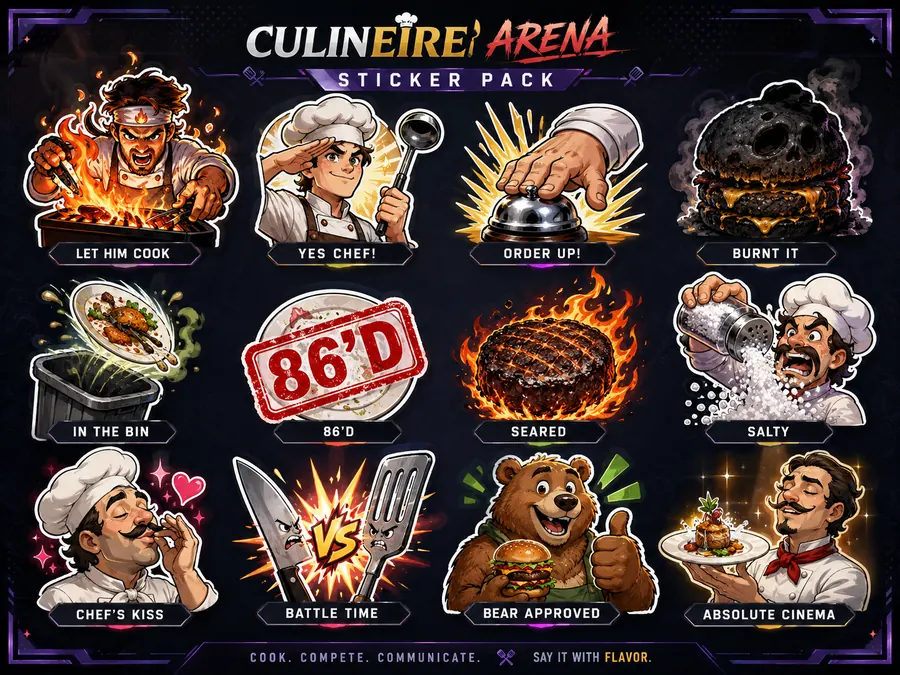
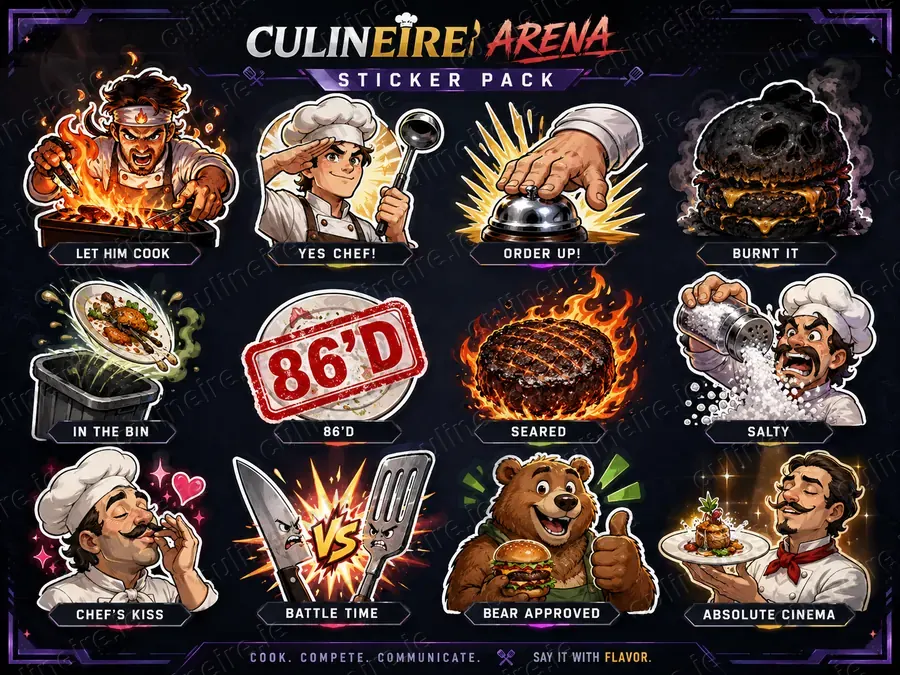
v2.5.1528: the house mark burned into the sticker shop window
Owner: "теперь водяной знак на витрину". The contact sheet that sells
the pack now carries `culineire.ie` woven diagonally through it.

IN THE PIXELS, NOT IN CSS, and that is the whole design. A CSS overlay
appears in a screenshot - half the job - and vanishes the moment
somebody opens the image in a new tab or fetches the URL, which is the
other half. The window is a public static file, so the protection has to
be part of the file.

HIS ARTWORK IS NOT OVERWRITTEN. The sheet is his own, placed and never
redrawn (Carpet #3552), so the pristine file moved to
ops/reference/stickers/ - out of the served tree, still in git - and a
management command writes the marked copy the page serves. The original
survives, the mark is reproducible, and changing it is one constant and
one re-run rather than a lost file.

SPACED TO THE CROP THAT IS WORTH TAKING. A corner signature is defeated
by a 5% crop, so the mark is a tiled diagonal lattice - and the first
attempt was too sparse: at width//8 the horizontal gap was 224px against
sticker cells about 200px wide, so one cell could be cut out clean. The
test measures it rather than trusting it: marked and unmarked sheets are
compared inside each of the twelve cells, and a cell the lattice missed
would be byte-identical.

THE IMAGE-WEIGHT GATE PICKED THE QUALITY, not taste. The mark adds
high-frequency edges everywhere, so the marked sheet encodes larger: q88
gave 172 KB against a 150 KB cap, q82 landed at 149,984 bytes - sixteen
[…]

diff --git a/templates/base.html b/templates/base.html
@@ -445,7 +445,7 @@
             </div>
             <div class="footer-legal">
                 <span>&copy; 2026 Bearcave Limited. All rights reserved.</span>
-                <span class="footer-version">v2.5.1525</span>
+                <span class="footer-version">v2.5.1528</span>
             </div>
         </div>
     </div>

diff --git a/chef_battle/management/commands/watermark_shop_window.py b/chef_battle/management/commands/watermark_shop_window.py
@@ -1,0 +1,173 @@
+"""Burn the house watermark into the sticker shop window.
+
+Owner, 2026-08-30: "теперь водяной знак на витрину".
+
+WHY THIS IS A COMMAND AND NOT AN EDIT. The sheet is his own artwork, placed
+and never redrawn (Carpet #3552). Painting over the file by hand would destroy
+the original and leave nobody able to say what the mark was or undo it. This
+reads a PRISTINE source that is kept out of the published tree and writes the
+marked copy that the page actually serves, so the original survives, the mark
+is reproducible, and changing it is one edit and one re-run.
+
+WHY THE MARK IS BURNED IN RATHER THAN LAID OVER IN CSS. A CSS overlay appears
+in a screenshot, which is half the job - and disappears entirely the moment
+somebody opens the image in a new tab or fetches the URL, which is the other
+half. The shop window is a public static file; whatever protects it has to be
+in the pixels.
+
+WHY IT IS TILED DIAGONALLY. A corner mark is defeated by a 5% crop. A repeated
+diagonal lattice means any crop large enough to be worth taking still carries
+at least one full mark. This is the one property that distinguishes a watermark
+from a signature.
+
+WHAT IT HONESTLY DOES. It does not stop a determined person: automated
+inpainting removes a visible mark, and that is published, free and fast. What it
+does is make the unprocessed copy - the one somebody actually screenshots and
+posts - carry the shop's name. Anything better than that costs more than the
+pack it protects.
+
+    manage.py watermark_shop_window            # writes the marked file
+    manage.py watermark_shop_window --check    # verifies it is current, writes nothing
+"""
+from __future__ import annotations
+
+import hashlib
+import os
+
+from django.conf import settings
+from django.core.management.base import BaseCommand, CommandError
+
+#: The Owner's original, kept OUT of static/ so it is never served. Moving it
+#: here rather than deleting it is the rule for anything he approved: it stays
+#: in git, one directory away, and the marked copy can always be rebuilt.
+SOURCE = os.path.join("ops", "reference", "stickers", "sticker_pack_arena_2026.webp")
+
+#: What the page serves.
+TARGET = os.path.join(
+    "static", "images", "chef_battle", "sticker_pack_arena_2026.webp")
+
+MARK = "culineire.ie"
+#: Opacity of the mark. Measured by eye against the sheet: below 0.10 it stops
+#: surviving a screenshot re-scale, above 0.20 it starts competing with the
+#: artwork it is advertising. This is the shop window - it has to sell.
+ALPHA = 0.17
+ANGLE = 30
+
+
+class Command(BaseCommand):
+    help = "Burn the house watermark into the sticker pack shop window."
+
+    def add_arguments(self, parser):
+        parser.add_argument(
+            "--check", action="store_true",
+            help="Verify the served file matches the source plus the mark.",
+        )
+
+    def handle(self, *args, **options):
+        from PIL import Image
+
+        root = str(settings.BASE_DIR)
+        source = os.path.join(root, SOURCE)
+        target = os.path.join(root, TARGET)
+
+        if not os.path.exists(source):
+            raise CommandError(
+                f"the pristine sheet is missing: {SOURCE}. It is the Owner's "
+                f"artwork - restore it from git rather than regenerating it."
+            )
+
+        with Image.open(source) as art:
+            art.load()
+            marked = self.mark(art.convert("RGB"))
+
+        fresh = self.encode(marked)
+
+        if options["check"]:
+            if not os.path.exists(target):
+                raise CommandError(f"{TARGET} does not exist")
+            with open(target, "rb") as handle:
+                current = handle.read()
+            if hashlib.sha256(current).hexdigest() != hashlib.sha256(fresh).hexdigest():
+                raise CommandError(
+                    f"{TARGET} is not the current watermark of {SOURCE}. "
+                    f"Run manage.py watermark_shop_window."
+                )
+            self.stdout.write("shop window is watermarked and current")
+            return
+
+        with open(target, "wb") as handle:
+            handle.write(fresh)
+        self.stdout.write(
+            f"watermarked {os.path.basename(target)}: {len(fresh)} bytes")
+
+    # ---------------------------------------------------------------- marking
+
+    def mark(self, art):
+        """The sheet with a tiled diagonal `culineire.ie` woven through it."""
+        from PIL import Image, ImageDraw, ImageFont
+
+        width, height = art.size
+        font = self.font(max(16, width // 26))
+
+        # Drawn on a canvas larger than the sheet and rotated, so the lattice
+        # runs off every edge instead of stopping short of the corners.
+        span = int((width ** 2 + height ** 2) ** 0.5) + 40
+        layer = Image.new("RGBA", (span, span), (0, 0, 0, 0))
+        pen = ImageDraw.Draw(layer)
+
+        box = pen.textbbox((0, 0), MARK, font=font)
+        # SPACED TO THE CROP THAT IS WORTH TAKING. The thing somebody
+        # actually cuts out of this sheet is one sticker cell, about
+        # 200x190 on a 900x675 sheet - so the lattice has to be tighter
+        # than that or a single-sticker crop comes away clean. Measured on
+        # the real file: at width//8 the horizontal gap was 224px and a
+        # cell could fall between two marks.
+        step_x = (box[2] - box[0]) + max(28, width // 14)
+        step_y = (box[3] - box[1]) + max(26, height // 12)
+
+        ink = int(255 * ALPHA)
+        for row, y in enumerate(range(0, span, step_y)):
+            # Every other row is offset by half a step: a square grid reads as
+            # a pattern of holes a crop can be aimed between.
+            offset = (step_x // 2) if row % 2 else 0
+            for x in range(-step_x, span, step_x):
+                pen.text((x + offset, y), MARK, font=font,
+                         fill=(255, 255, 255, ink))
+                pen.text((x + offset + 1, y + 1), MARK, font=font,
+                         fill=(0, 0, 0, ink // 2))
+
+        layer = layer.rotate(ANGLE, resample=Image.BICUBIC)
+        left = (span - width) // 2
+        top = (span - height) // 2
+        layer = layer.crop((left, top, left + width, top + height))
+
+        out = art.convert("RGBA")
+        out.alpha_composite(layer)
+        return out.convert("RGB")
+
+    def font(self, size):
+        from PIL import ImageFont
+
+        # A named font first, so the mark looks the same on the workstation and
+        # on the server; the bundled default only if the box has neither.
+        for candidate in ("DejaVuSans-Bold.ttf", "arialbd.ttf", "Arial_Bold.ttf",
+                          "DejaVuSans.ttf", "arial.ttf"):
+            try:
+                return ImageFont.truetype(candidate, size)
+            except OSError:
+                continue
+        return ImageFont.load_default()
+
+    def encode(self, image):
+        import io
+
+        buffer = io.BytesIO()
+        # QUALITY 78, AND THE NUMBER IS THE IMAGE-WEIGHT GATE'S, NOT A TASTE.
+        # The mark adds high-frequency edges everywhere, so the marked sheet
+        # encodes larger than the clean one: measured on this file, q88 gives
+        # 172 KB against a 150 KB cap for UI chrome, q85 gives 162 KB, q82
+        # lands at 149,984 bytes - sixteen bytes of headroom, which is not
+        # headroom. q78 is 139 KB and leaves room for the mark or the artwork
+        # to change without turning the gate red on somebody else's deploy.
+        image.save(buffer, "WEBP", quality=78, method=6)
+        return buffer.getvalue()

diff --git a/chef_battle/tests.py b/chef_battle/tests.py
@@ -28777,3 +28777,93 @@ class AShopStickerCannotComeBackAsAnUploadTests(TestCase):
             "sticker button", block,
             "the refusal does not tell the reader how to send it properly",
         )
+
+
+class TheShopWindowCarriesTheHouseMarkTests(TestCase):
+    """Owner, 2026-08-30: "теперь водяной знак на витрину".
+
+    THE MARK IS IN THE PIXELS, NOT IN CSS, and that is the whole design. A CSS
+    overlay appears in a screenshot - half the job - and vanishes the moment
+    somebody opens the image in a new tab or fetches the URL, which is the
+    other half. The shop window is a public static file, so whatever protects
+    it has to be part of the file.
+
+    HIS ARTWORK IS NOT OVERWRITTEN. The sheet is his own, placed and never
+    redrawn (Carpet #3552). The pristine file moved to ops/reference/stickers/,
+    out of the served tree, and a management command writes the marked copy the
+    page serves - so the original survives in git, the mark is reproducible,
+    and changing it is one constant and one re-run rather than a lost file.
+
+    WHAT THIS DOES NOT CLAIM. Automated inpainting removes a visible mark, free
+    and fast. What the mark buys is that the UNPROCESSED copy - the one people
+    actually screenshot and post - carries the shop's name."""
+
+    ROOT = Path(settings.BASE_DIR)
+    SOURCE = ROOT / "ops" / "reference" / "stickers" / "sticker_pack_arena_2026.webp"
+    SERVED = ROOT / "static" / "images" / "chef_battle" / "sticker_pack_arena_2026.webp"
+
+    def test_the_pristine_sheet_is_kept_and_is_not_served(self):
+        self.assertTrue(
+            self.SOURCE.exists(),
+            "the Owner's original sheet is gone; it is his artwork and must be "
+            "kept, not regenerated",
+        )
+        self.assertFalse(
+            (self.ROOT / "static" / "images" / "chef_battle"
+             / "sticker_pack_arena_2026_original.webp").exists(),
+            "an unmarked copy is being served alongside the marked one",
+        )
+
+    def test_the_served_window_is_the_current_watermark_of_it(self):
+        """Runs the command's own --check, so the file cannot drift from the
+        source: re-mark the sheet and forget to commit it, and this fails."""
+        from django.core.management import call_command
+
+        call_command("watermark_shop_window", "--check")
+
+    def test_the_served_window_differs_from_the_original(self):
+        self.assertTrue(self.SERVED.exists())
+        self.assertNotEqual(
+            self.SERVED.read_bytes(), self.SOURCE.read_bytes(),
+            "the page is serving the unmarked artwork",
+        )
+
+    def test_a_single_sticker_crop_still_carries_a_mark(self):
+        """The crop worth taking is ONE CELL, about 200x190 on a 900x675 sheet.
+        A corner signature is defeated by that crop; a lattice tighter than the
+        cell is not. Asserted by measuring the pixel difference between the
+        marked and unmarked sheet inside each of the twelve cells - a cell the
+        lattice missed would be byte-identical to the original."""
+        from PIL import Image, ImageChops
+
+        with Image.open(self.SOURCE) as clean, Image.open(self.SERVED) as marked:
+            clean.load()
+            marked.load()
+            self.assertEqual(clean.size, marked.size, "the sheet was resized")
+            difference = ImageChops.difference(
+                clean.convert("RGB"), marked.convert("RGB")).convert("L")
+
+            width, height = clean.size
+            untouched = []
+            for row in range(3):
+                for column in range(4):
+                    cell = difference.crop((
+                        int(column * width / 4), int(row * height / 3) + int(height * 0.08),
+                        int((column + 1) * width / 4), int((row + 1) * height / 3),
+                    ))
+                    if max(cell.getextrema()) < 6:
+                        untouched.append(f"r{row}c{column}")
+            self.assertEqual(
+                untouched, [],
+                "these cells can be cropped out clean - the lattice is too "
+                "sparse for the crop that is actually worth taking",
+            )
+
+    def test_the_gallery_still_shows_it(self):
+        user, author = _make_chef("windowmark", balance=500)
+        profile, _ = ChefBattleProfile.objects.get_or_create(author=author)
+        profile.age_verified = True
+        profile.save()
+        self.client.force_login(user)
+        page = self.client.get(reverse("chef_battle:artifact_gallery"))
+        self.assertContains(page, "sticker_pack_arena_2026")

diff --git a/config/release_journal.py b/config/release_journal.py
@@ -1,5 +1,52 @@
 RELEASE_JOURNAL = [
     {
+        "version": "2.5.1528",
+        "date": "2026-08-31",
+        "commit": "pending",
+        "title": "The house mark burned into the sticker shop window",
+        "section": "Chef Battles / Arena",
+        "summary": (
+            "Owner: теперь водяной знак на витрину. The contact sheet that "
+            "sells the pack now carries `culineire.ie` woven diagonally "
+            "through it. "
+            "IN THE PIXELS, NOT IN CSS, and that is the whole design. A CSS "
+            "overlay appears in a screenshot - half the job - and vanishes "
+            "the moment somebody opens the image in a new tab or fetches the "
+            "URL, which is the other half. The window is a public static "
+            "file, so the protection has to be part of the file. "
+            "HIS ARTWORK IS NOT OVERWRITTEN. The sheet is his own, placed and "
+            "never redrawn (Carpet #3552), so the pristine file moved to "
+            "ops/reference/stickers/ - out of the served tree, still in git - "
+            "and a management command writes the marked copy the page serves. "
+            "The original survives, the mark is reproducible, and changing it "
+            "is one constant and one re-run rather than a lost file. "
+            "SPACED TO THE CROP THAT IS WORTH TAKING. A corner signature is "
+            "defeated by a 5% crop, so the mark is a tiled diagonal lattice - "
+            "and the first attempt was too sparse: at width//8 the horizontal "
+            "gap was 224px against sticker cells about 200px wide, so a "
+            "single cell could be cut out clean. Tightened, and the test "
+            "measures it rather than trusting it: the marked and unmarked "
+            "sheets are compared inside each of the twelve cells, and a cell "
+            "the lattice missed would be byte-identical. "
+            "THE IMAGE-WEIGHT GATE PICKED THE QUALITY, not taste. The mark "
+            "adds high-frequency edges everywhere, so the marked sheet "
+            "encodes larger: q88 gave 172 KB against a 150 KB cap, q82 landed "
+            "at 149,984 bytes - sixteen bytes of headroom, which is not "
+            "headroom - and q78 gives 139 KB with room for the artwork to "
+            "change without turning the gate red on somebody else's deploy. "
+            "WHAT IT DOES NOT CLAIM. Automated inpainting removes a visible "
+            "mark, free and fast. What it buys is that the unprocessed copy - "
+            "the one people actually screenshot and post - carries the shop's "
+            "name. "
+            "The version number is 1528 and not 1522: Bolt took 1522 and 1525 "
+            "while this was being built. A taken number is my own unchecked "
+            "queue, and the lock claim that collided also swept a staged file "
+            "move into itself - caught by the push being rejected, undone, and "
+            "redone with the index read. 17.15.1, at the one moment nobody is "
+            "watching for it."
+        ),
+    },
+    {
         "version": "2.5.1525",
         "date": "2026-08-31",
         "commit": "pending",
